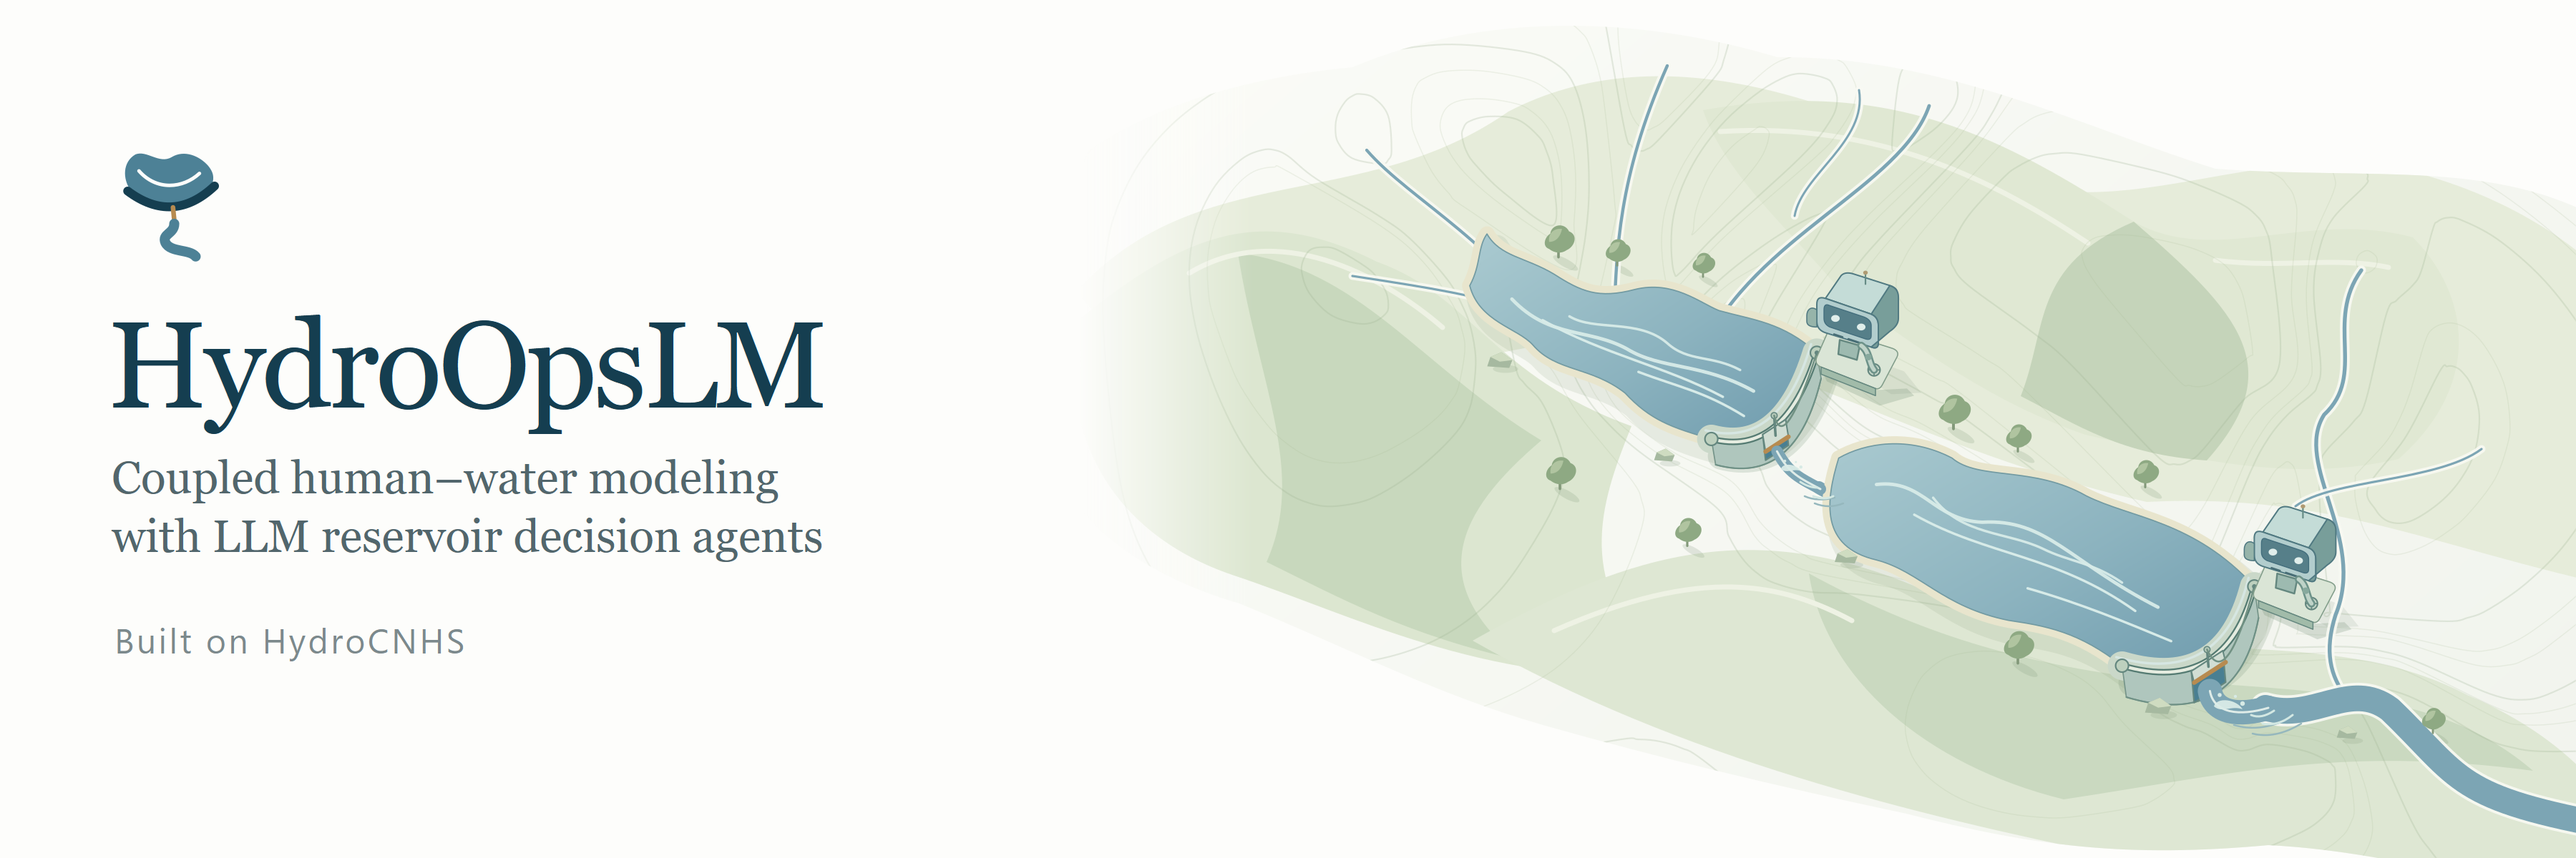
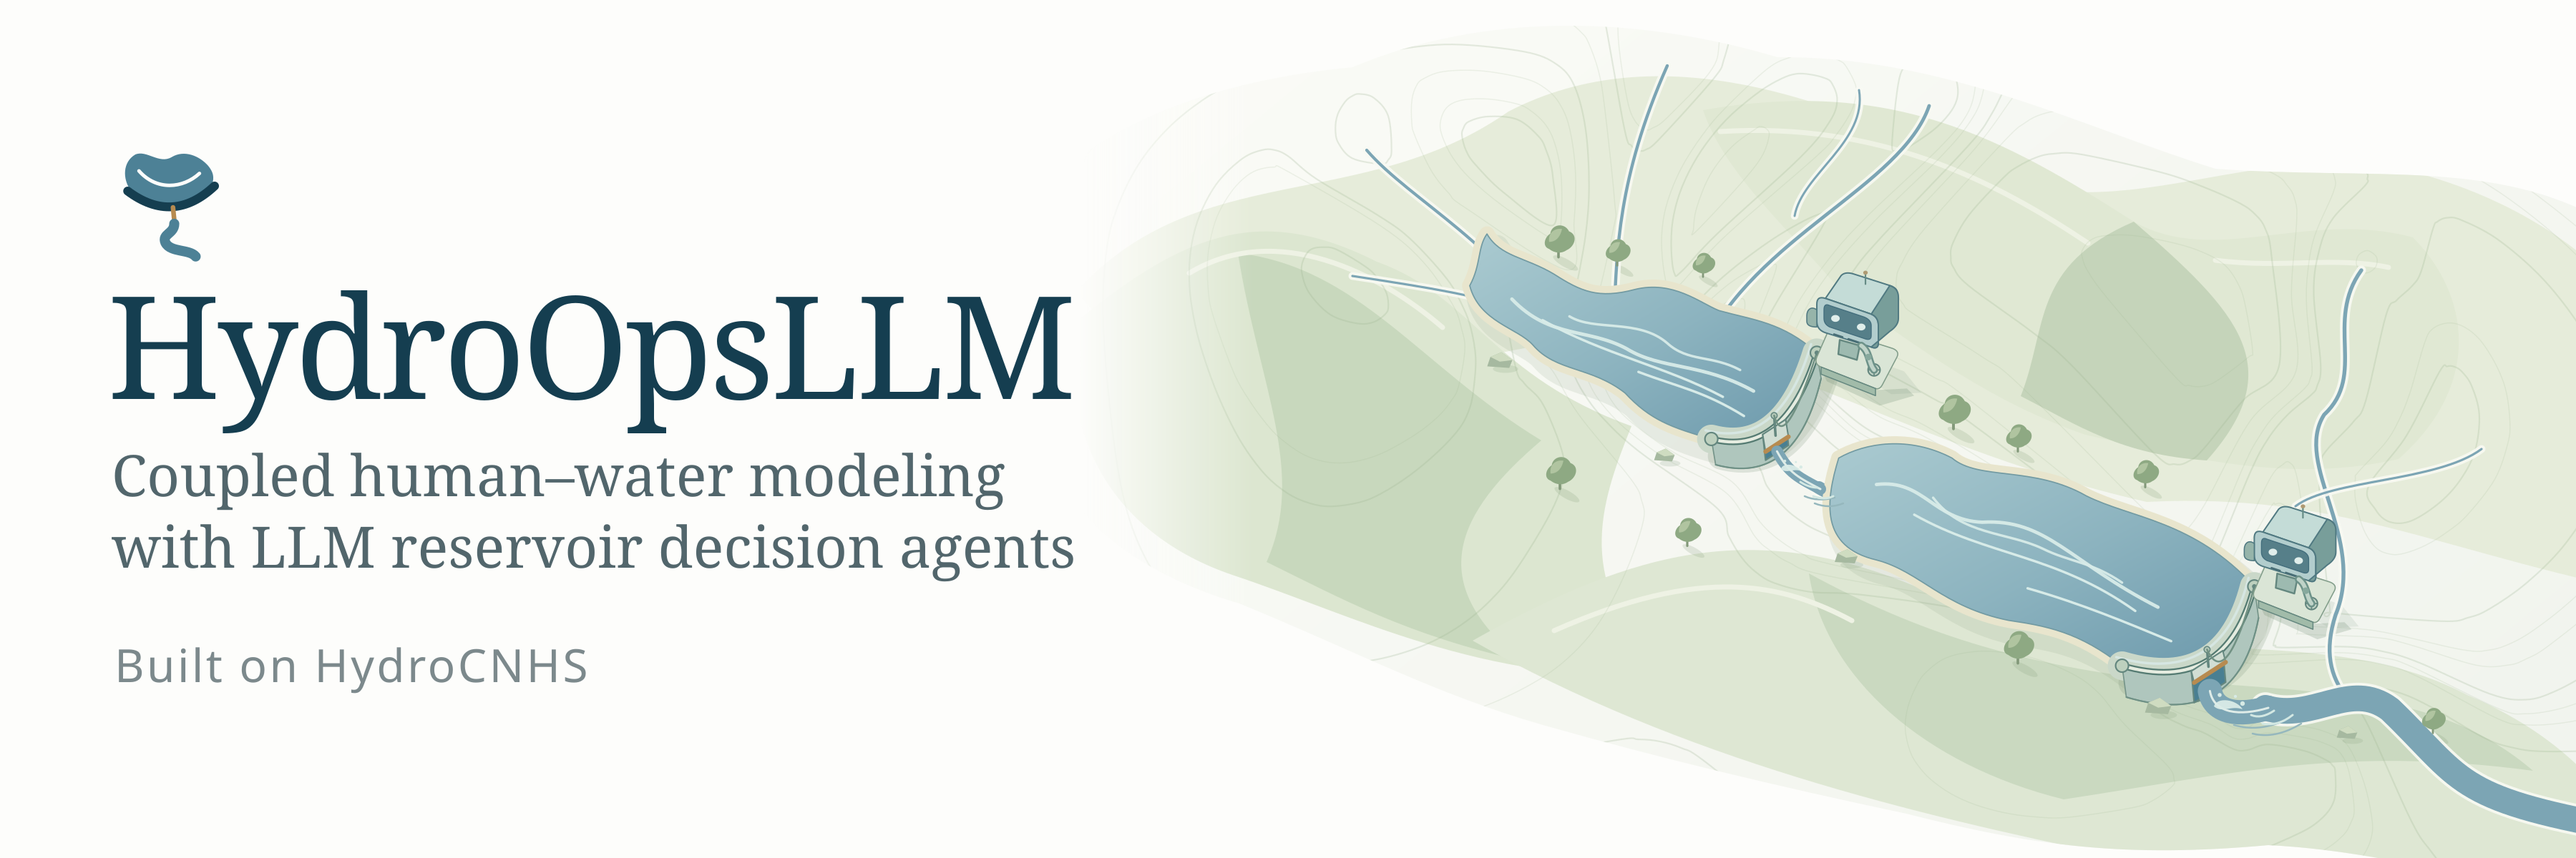
docs: introduce HydroOpsLLM daily coupling workflow and approved cover (#33)

Changed region(s): [[0.0311, 0.3392, 0.4356, 0.6783], [0.0311, 0.74, 0.2178, 0.8017]]

diff --git a/README.md b/README.md
@@ -1,34 +1,122 @@
-<img src="docs/figures/assets/branding/hydroopslm-logo.png" align="right" width="64" height="64" alt="HydroOpsLM logo">
+# HydroOpsLLM
 
-# HydroOpsLM
+[![User manual](docs/_static/docs-badge-en.svg)](https://wenyuchiou.github.io/HydroOpsLM/)
+![Python 3.12 setup](https://img.shields.io/badge/Python-3.12-3776AB?logo=python&logoColor=white)
 
-**Hydrological Simulation with Large Language Model Reservoir Operations**
+[English](README.md) | [繁體中文](README.zh-TW.md) · [User manual](https://wenyuchiou.github.io/HydroOpsLM/) · [Quick start](#installation)
 
-[English](README.md) | [繁體中文](README.zh-TW.md)
+HydroOpsLLM is a HydroCNHS-based Python package for coupling LLM-driven decision-making with hydrological simulation, with applications to reservoir operations and water management.
 
-[![Read the user manual](docs/_static/docs-badge-en.svg)](https://wenyuchiou.github.io/HydroOpsLM/)
+![HydroOpsLLM cover](docs/figures/hydroopslm-cover.png)
 
-![HydroOpsLM cover](docs/figures/hydroopslm-cover.png)
+## Installation
 
-**HydroOpsLM** is a framework for large language model (LLM) reservoir operations coupled
-with [HydroCNHS](https://github.com/cylin928/HydroCNHS). Configure each reservoir's
-decision information, prompt, operation method and checks. HydroCNHS provides
-hydrology and river routing; HydroOpsLM adds reservoir accounting and links
-proposals, audits and implemented releases.
+Use Python 3.12. Repository access is required while this project is private.
 
-![HydroOpsLM concept](docs/figures/hydrocnhs-coupling-framework-en.png)
-
-## Install
-
-Use Python 3.12. Clone the repository, create a virtual environment, then install:
-
-```powershell
+```sh
 git clone https://github.com/WenyuChiou/HydroOpsLM.git
 cd HydroOpsLM
-python -m venv .venv
+```
+
+On Linux/macOS, with Python 3.12 installed:
+
+```sh
+python3.12 -m venv .venv
+source .venv/bin/activate
+```
+
+On Windows PowerShell, with Python 3.12 available through the Python launcher:
+
+```powershell
+py -3.12 -m venv .venv
 .venv\Scripts\Activate.ps1
+```
+
+Confirm that the activated interpreter reports Python 3.12 before installing:
+
+```sh
+python --version
 python -m pip install -e . -c environment/requirements-bundled.txt
 ```
 
-The [User Manual](https://wenyuchiou.github.io/HydroOpsLM/) covers installation on
-other platforms, case setup, operation methods, examples, audit/trace and references.
+## Quick start: daily reservoir operation
+
+HydroOpsLLM advances the coupled system **one day at a time**: read inflow and state → request release → update storage and route outflow → feed the implemented result into the next decision. The simulation period is configured separately from this daily timestep.
+
+Run the F.E. Walter rule-based example without a language model or API key:
+
+```sh
+python run_experiment.py check examples/fe_walter/benchmark/experiment.hydroopslm.offline.yaml
+python run_experiment.py run examples/fe_walter/benchmark/experiment.hydroopslm.offline.yaml
+python run_experiment.py verify runs/hydroopslm-fe-walter-benchmark --require-offline
+```
+
+This example computes daily releases for January 1–3, 2016; it uses an operating rule, not fixed actions. Start with a fresh output location; see the [run guide](docs/USER_GUIDE.md) for configuration, longer periods and repeat runs.
+
+### Explore Rule-based, Zero-shot and DKP
+
+The [F.E. Walter tutorial](examples/fe_walter/README.md) follows three methods through the same daily coupling workflow:
+
+| Method | Daily decision | Example |
+|---|---|---|
+| Rule-based | Flood-control rule using inflow, storage and historical statistics | [Run and inspect](examples/fe_walter/benchmark/README.md) |
+| Zero-shot | LLM uses instructions and available reservoir information | [Prompt, reply and operation](examples/fe_walter/zero_shot/README.md) |
+| DKP | LLM also uses retrieved document knowledge | [Retrieval, reply and operation](examples/fe_walter/dkp/README.md) |
+
+The LLM examples preserve the Anik V3.7 reference-method integration. Inspect actual saved daily prompts, replies, release and storage in the [main notebook](tutorials/main.ipynb), without making a model request. Check both LLM configurations before execution:
+
+```sh
+python run_experiment.py check examples/fe_walter/zero_shot/experiment.ollama.yaml
+python run_experiment.py check examples/fe_walter/dkp/experiment.ollama.yaml
+```
+
+`check` makes no provider request. New LLM runs need local Ollama with `gemma3:4b` available and explicit `--allow-network`; these examples need no API key. Other providers may require credentials and incur charges. Follow the method links for execution commands. The saved tutorial illustrates decisions; it is not a controlled performance ranking.
+
+## Capabilities
+
+- Configure decision information, prompts and model providers for each controlled reservoir.
+- Exchange rule-based and LLM policies through a shared reservoir-action interface.
+- Couple reservoir operations to HydroCNHS routing, with implemented outcomes feeding later decisions.
+- Record information, proposals, audits and physical outcomes for reproducible analysis.
+- Build multi-reservoir experiments; see the [advanced tutorial](tutorials/advanced.ipynb).
+
+## Architecture and information flow
+
+Three flows remain distinct:
+
+1. **Water and physical state:** inflow → HydroCNHS routing → reservoir transition → downstream routing and updated storage.
+2. **Decision information:** selected state and eligible external information → prompt/backend → requested action.
+3. **Feedback and evidence:** implemented transition → subsequent decision history; decision and physical records → audit and saved-run verification.
+
+The LLM sees the information in its messages; storage and routing remain under host control.
+
+| Component | Current modules | Responsibility |
+|---|---|---|
+| Setup and orchestration | `workflow`, `case`, `experiment` | Validate inputs, assemble methods, enforce execution gates and coordinate runs |
+| Native simulation coupling | `network`, `agent` | Bind policies to HydroCNHS Dam agents, routing and committed feedback |
+| Physical accounting | `physics`, `passive`, `balance` | Implement release, spill, storage and reservoir/network accounting |
+| Decision information | `information`, `information_runtime` | Select timestamp-eligible data and bind simulation information |
+| Policies and providers | `configured_backend`, `benchmark`, `reference_backend`, `policy_adapter` | Generate and normalize proposals; preserve method-specific behavior |
+| Audits and evidence | `auditor`, `configured_audit`, `outcome`, `trace`, `verification` | Assess configured criteria, diagnose routed outcomes and verify saved records |
+
+These modules belong to `llm_reservoir_agent`. The bundled `hydrocnhs` namespace retains upstream APIs. `delaware_operations` preserves historical and compatibility code, including adapters still used by reference methods. See [LLM modules](docs/LLM_MODULES.md) for interfaces and extension boundaries.
+
+## Documentation and research use
+
+[User manual](https://wenyuchiou.github.io/HydroOpsLM/) · [Design a simulation](docs/BUILD_SIMULATION.md) · [Model configuration](docs/USER_GUIDE.md) · [Read results](docs/RESULTS_GUIDE.md)
+
+The current CLI uses supplied daily inflows and native HydroCNHS routing/Dam coupling. The F.E. Walter examples read frozen hydrological outputs. Weather-driven integration requires explicit native model and policy wiring; see [hydrological setup](docs/HYDROLOGY_SETUP.md) and [daily coupling](examples/fe_walter/coupling.md).
+
+Record the code commit, environment, inputs, prompts, model settings and complete run evidence. Physical assumptions, audit interpretation and extension requirements are documented in the [case guide](examples/fe_walter/README.md), [module guide](docs/LLM_MODULES.md) and [running guide](docs/RUNNING.md). This is research software; operating audits do not certify dam safety.
+
+## License
+
+Project license: pending; no MIT license is currently supplied. HydroCNHS retains its [BSD 3-Clause license](licenses/HydroCNHS-BSD-3-Clause.txt). Review the [third-party notices](THIRD_PARTY_NOTICES.md), including unresolved Anik redistribution permissions, before public distribution.
+
+## References and citation
+
+HydroOpsLLM builds on [HydroCNHS](https://github.com/cylin928/HydroCNHS), bundled at commit `fdd5097a3fcabb312c6c3739efc71da2d67c47da` ([source provenance](third_party/hydrocnhs/SOURCE.json)). Please cite the original framework:
+
+Lin, C.-Y., Yang, Y.-C. E., and Wi, S. (2022). “HydroCNHS: A Python Package of Hydrological Model for Coupled Natural Human Systems.” *Journal of Water Resources Planning and Management*, 148(12), 06022005. [doi:10.1061/(ASCE)WR.1943-5452.0001630](https://doi.org/10.1061/(ASCE)WR.1943-5452.0001630).
+
+See the [reference guide](docs/REFERENCE.md) for operation-method sources. Record the HydroOpsLLM commit separately; a dedicated software citation/DOI has not yet been specified.

diff --git a/README.zh-TW.md b/README.zh-TW.md
@@ -1,34 +1,122 @@
-<img src="docs/figures/assets/branding/hydroopslm-logo.png" align="right" width="64" height="64" alt="HydroOpsLM logo">
+# HydroOpsLLM
 
-# HydroOpsLM
+[![使用手冊](docs/_static/docs-badge-zh-TW.svg)](https://wenyuchiou.github.io/HydroOpsLM/)
+![Python 3.12 setup](https://img.shields.io/badge/Python-3.12-3776AB?logo=python&logoColor=white)
 
-**Hydrological Simulation with Large Language Model Reservoir Operations**
+[English](README.md) | [繁體中文](README.zh-TW.md) · [使用手冊](https://wenyuchiou.github.io/HydroOpsLM/) · [快速入門](#安裝)
 
-[English](README.md) | [繁體中文](README.zh-TW.md)
+HydroOpsLLM 是以 HydroCNHS 為基礎的 Python 套件，將 LLM 驅動的決策與水文模擬耦合，應用於水庫操作與水資源管理。
 
-[![閱讀使用手冊](docs/_static/docs-badge-zh-TW.svg)](https://wenyuchiou.github.io/HydroOpsLM/)
-
-![HydroOpsLM 封面](docs/figures/hydroopslm-cover.png)
-
-**HydroOpsLM** 是以大型語言模型（LLM）進行水庫操作、耦合
-[HydroCNHS](https://github.com/cylin928/HydroCNHS) 的模擬框架。
-研究者可為每座水庫設定決策資訊、prompt、操作方法與檢查。
-HydroCNHS 提供水文與河川 routing；HydroOpsLM 加入水庫收支計算，
-連結放流提案、audit 與實際執行結果。
-
-![HydroOpsLM 概念圖](docs/figures/hydrocnhs-coupling-framework-en.png)
+![HydroOpsLLM 封面](docs/figures/hydroopslm-cover.png)
 
 ## 安裝
 
-使用 Python 3.12。先 clone repo、建立虛擬環境，再安裝：
+使用 Python 3.12。專案維持私有期間需要 repo 存取權。
 
-```powershell
+```sh
 git clone https://github.com/WenyuChiou/HydroOpsLM.git
 cd HydroOpsLM
-python -m venv .venv
+```
+
+Linux/macOS 已安裝 Python 3.12 時：
+
+```sh
+python3.12 -m venv .venv
+source .venv/bin/activate
+```
+
+Windows PowerShell 可透過 Python launcher 使用 Python 3.12 時：
+
+```powershell
+py -3.12 -m venv .venv
 .venv\Scripts\Activate.ps1
+```
+
+啟用後先確認 interpreter 顯示 Python 3.12，再安裝：
+
+```sh
+python --version
 python -m pip install -e . -c environment/requirements-bundled.txt
 ```
 
-[User Manual](https://wenyuchiou.github.io/HydroOpsLM/) 提供其他平台的安裝方式、
-案例建立、操作方法、範例、audit／trace 與引用來源。
+## 快速入門：逐日水庫操作
+
+HydroOpsLLM 以**一天為時間步長**推進耦合系統：讀取入流與狀態 → 提出放流需求 → 更新蓄水並演算出流 → 將實施結果回饋至下一日決策。模擬起訖期間與逐日時間步長分開設定。
+
+先執行不需語言模型或 API key 的 F.E. Walter 規則式範例：
+
+```sh
+python run_experiment.py check examples/fe_walter/benchmark/experiment.hydroopslm.offline.yaml
+python run_experiment.py run examples/fe_walter/benchmark/experiment.hydroopslm.offline.yaml
+python run_experiment.py verify runs/hydroopslm-fe-walter-benchmark --require-offline
+```
+
+此範例依操作規則計算 2016 年 1 月 1–3 日的逐日放流，並非固定動作。請使用尚不存在的輸出位置；設定、延長期間與再次執行方式見[執行指南](docs/USER_GUIDE.md)。
+
+### 探索 Rule-based、Zero-shot 與 DKP
+
+[F.E. Walter 教學](examples/fe_walter/README.md)以同一套逐日耦合流程說明三種方法：
+
+| 方法 | 逐日決策 | 範例 |
+|---|---|---|
+| Rule-based | 依入流、蓄水與歷史統計執行防洪規則 | [執行與檢視](examples/fe_walter/benchmark/README.md) |
+| Zero-shot | LLM 使用操作指示與可用水庫資訊 | [提示詞、回覆與操作](examples/fe_walter/zero_shot/README.md) |
+| DKP | LLM 另使用檢索的文件知識 | [檢索、回覆與操作](examples/fe_walter/dkp/README.md) |
+
+LLM 範例保留 Anik V3.7 reference 方法的整合。[主教學 notebook](tutorials/main.ipynb)可直接查看已保存的逐日提示詞、回覆、放流與蓄水，不需發送模型請求。執行前先檢查兩份 LLM 設定：
+
+```sh
+python run_experiment.py check examples/fe_walter/zero_shot/experiment.ollama.yaml
+python run_experiment.py check examples/fe_walter/dkp/experiment.ollama.yaml
+```
+
+`check` 不發送 provider 請求。新 LLM 模擬需要本機 Ollama 已備妥 `gemma3:4b`，並明確指定 `--allow-network`；這兩個範例不需 API key。其他 provider 可能需要憑證並產生費用。執行命令見各方法連結。保存的教學紀錄用來說明決策，並非受控效能排名。
+
+## 功能
+
+- 為各受控水庫設定決策資訊、提示詞與模型 provider。
+- 以共用水庫動作介面替換規則式與 LLM 策略。
+- 將水庫操作接入 HydroCNHS 河川演算，並把實施結果回饋至後續決策。
+- 保存資訊、提案、稽核與物理結果，支援可重現的分析。
+- 建立多水庫實驗，見[進階教學](tutorials/advanced.ipynb)。
+
+## 架構與資訊流
+
+三種流程分別處理：
+
+1. **水量與物理狀態：** 入流 → HydroCNHS 演算 → 水庫狀態轉移 → 下游演算及蓄水更新。
+2. **決策資訊：** 選取的狀態與符合可用條件的外部資訊 → 提示詞／backend → 動作需求。
+3. **回饋與證據：** 已實施的狀態轉移 → 後續決策歷史；決策及物理紀錄 → 稽核與保存結果驗證。
+
+LLM 接收訊息中提供的資訊；蓄水與河川演算仍由主程式掌管。
+
+| 元件 | 現行模組 | 責任 |
+|---|---|---|
+| 設定與編排 | `workflow`、`case`、`experiment` | 驗證輸入、組合方法、執行條件管制與協調實驗 |
+| 原生模擬耦合 | `network`、`agent` | 將策略接至 HydroCNHS Dam agents、演算與已提交結果回饋 |
+| 物理收支 | `physics`、`passive`、`balance` | 實施放流、溢流、蓄水與水庫／河網水量收支 |
+| 決策資訊 | `information`、`information_runtime` | 選取時間條件合格的資料並接入模擬資訊 |
+| 策略與 provider | `configured_backend`、`benchmark`、`reference_backend`、`policy_adapter` | 產生及標準化提案，保留各方法的特定行為 |
+| 稽核與證據 | `auditor`、`configured_audit`、`outcome`、`trace`、`verification` | 評估設定的準則、診斷演算結果並驗證保存紀錄 |
+
+上述模組屬於 `llm_reservoir_agent`。隨附的 `hydrocnhs` 命名空間保留上游 API；`delaware_operations` 保留歷史與相容程式，其中部分 adapters 仍被 reference 方法使用。介面與擴充界線見 [LLM 模組](docs/LLM_MODULES.md)。
+
+## 文件與研究使用
+
+[使用手冊](https://wenyuchiou.github.io/HydroOpsLM/) · [設計模擬](docs/BUILD_SIMULATION.md) · [模型設定](docs/USER_GUIDE.md) · [閱讀結果](docs/RESULTS_GUIDE.md)
+
+目前 CLI 使用給定的逐日入流，搭配原生 HydroCNHS 河川演算與 Dam 耦合。F.E. Walter 範例讀取固定保存的水文輸出；氣象驅動整合需要明確設定原生模型與策略接線，見[水文設定](docs/HYDROLOGY_SETUP.md)與[逐日耦合](examples/fe_walter/coupling.md)。
+
+請記錄程式 commit、環境、輸入、提示詞、模型設定及完整執行證據。物理假設、稽核解讀與擴充需求見[案例指南](examples/fe_walter/README.md)、[模組指南](docs/LLM_MODULES.md)與[執行指南](docs/RUNNING.md)。本套件為研究軟體；操作稽核不構成水壩安全認證。
+
+## 授權
+
+專案授權待定，目前沒有 MIT 授權。HydroCNHS 保留其 [BSD 3-Clause 授權](licenses/HydroCNHS-BSD-3-Clause.txt)。公開散布前，請確認[第三方聲明](THIRD_PARTY_NOTICES.md)，包括尚未釐清的 Anik 再散布權限。
+
+## 參考文獻與引用
+
+HydroOpsLLM 建築於 [HydroCNHS](https://github.com/cylin928/HydroCNHS)，隨附核心版本為 commit `fdd5097a3fcabb312c6c3739efc71da2d67c47da`（[來源紀錄](third_party/hydrocnhs/SOURCE.json)）。請引用原始框架：
+
+Lin, C.-Y., Yang, Y.-C. E., and Wi, S. (2022). “HydroCNHS: A Python Package of Hydrological Model for Coupled Natural Human Systems.” *Journal of Water Resources Planning and Management*, 148(12), 06022005. [doi:10.1061/(ASCE)WR.1943-5452.0001630](https://doi.org/10.1061/(ASCE)WR.1943-5452.0001630).
+
+操作方法來源見[參考文獻指南](docs/REFERENCE.md)。請另外記錄 HydroOpsLLM commit；專用軟體引文／DOI 尚未指定。

diff --git a/docs/figures/assets/branding/EDITING.md b/docs/figures/assets/branding/EDITING.md
@@ -1,7 +1,9 @@
-# HydroOpsLM visual candidate
+# HydroOpsLLM editable cover
 
-This illustrative cover is a visual candidate for review; the user has not
-approved it as final branding. Gate openings and release widths are illustrative,
+The existing illustrative cover was selected and merged in PR #26. This revision
+updates its displayed name to HydroOpsLLM and enlarges all four text nodes;
+the revised cover typography was approved by the user on 2026-10-16.
+Repository integration remains subject to PR review and separate merge approval. Gate openings and release widths are illustrative,
 not measurements or simulation results. The cover retains **Built on HydroCNHS**.
 The existing project mark is retained, without introducing a new logo design.
 
@@ -39,7 +41,23 @@ import/drag behavior has not been tested.
 
 ## Provenance
 
-Artwork is authored as native SVG geometry and text, rendered with CairoSVG.
+Artwork is authored as native SVG geometry and text. The original exports used
+CairoSVG; this typography revision uses Inkscape 1.4.
 Pillow assembles previews only. No image-generation service was used. The SVGs
 contain no raster image embeds, scripts or external resource references.
-[provenance.json](provenance.json) records SHA-256 hashes and the visual-candidate scope.
+[provenance.json](provenance.json) records SHA-256 hashes and the revision scope.
+
+
+## Typography revision
+
+Title: 100 px (previously 86); subtitles: 40 px (previously 32);
+credit: 32 px (previously 24). Positions and line spacing avoid overlap.
+All terrain, reservoir, robot, logo and other non-text geometry is unchanged.
+SVG text remains editable. The renderer used Noto Serif/OpenAI Sans fallbacks
+because Georgia/Segoe UI were unavailable; original font-family declarations
+remain in the SVG. Rendering can vary on machines with different fonts.
+
+The older `hydroopslm-cover.drawio` is historical: it contains an embedded PNG
+and two editable labels, and does not regenerate the current illustration.
+Use the cover SVG as the editable master. Existing asset paths are retained
+for link compatibility; repository, package and API names are unchanged.
